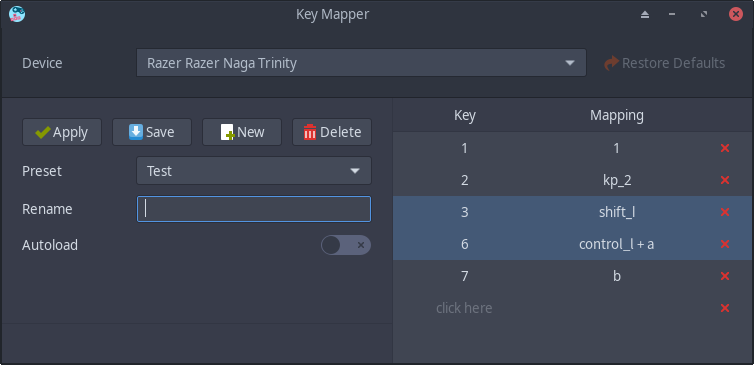
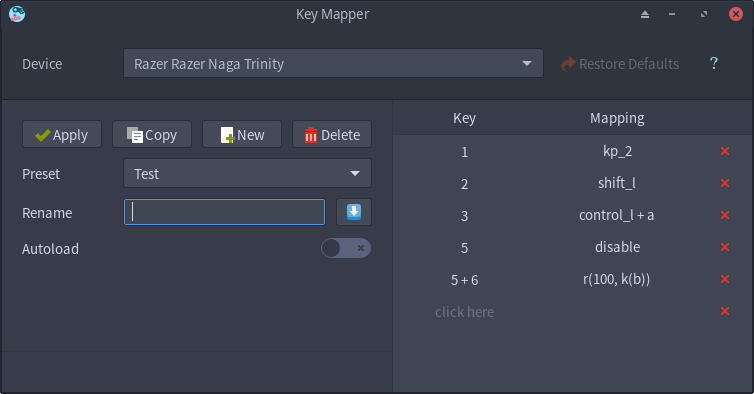
fixed mapping joysticks as buttons

diff --git a/tests/testcases/test_reader.py b/tests/testcases/test_reader.py
@@ -20,6 +20,7 @@
 
 
 import unittest
+from unittest import mock
 import time
 import multiprocessing
 
@@ -166,22 +167,22 @@ class TestReader(unittest.TestCase):
         self.assertEqual(reader.get_unreleased_keys(), None)
 
     def test_change_wheel_direction(self):
-        self.assertEqual(reader.read(), None)
-        self.create_helper()
-        self.assertEqual(reader.read(), None)
         # not just wheel, anything that suddenly reports a different value.
         # as long as type and code are equal its the same key, so there is no
         # way both directions can be held down.
+        self.assertEqual(reader.read(), None)
+        self.create_helper()
+        self.assertEqual(reader.read(), None)
         reader.start_reading('device 1')
         self.assertEqual(reader.read(), None)
 
-        send_event_to_reader(new_event(1234, 2345, 1))
-        self.assertEqual(reader.read(), (1234, 2345, 1))
+        send_event_to_reader(new_event(EV_REL, REL_WHEEL, 1))
+        self.assertEqual(reader.read(), (EV_REL, REL_WHEEL, 1))
         self.assertEqual(len(reader._unreleased), 1)
         self.assertEqual(reader.read(), None)
 
-        send_event_to_reader(new_event(1234, 2345, -1))
-        self.assertEqual(reader.read(), (1234, 2345, -1))
+        send_event_to_reader(new_event(EV_REL, REL_WHEEL, -1))
+        self.assertEqual(reader.read(), (EV_REL, REL_WHEEL, -1))
         # notice that this is no combination of two sides, the previous
         # entry in unreleased has to get overwritten. So there is still only
         # one element in it.
@@ -240,13 +241,14 @@ class TestReader(unittest.TestCase):
     def test_reading_3(self):
         self.create_helper()
         # a combination of events via Socket with reads inbetween
-        reader.start_reading('device 1')
+        reader.start_reading('gamepad')
 
         send_event_to_reader(new_event(EV_KEY, CODE_1, 1, 1001))
         self.assertEqual(reader.read(), (
             (EV_KEY, CODE_1, 1)
         ))
 
+        custom_mapping.set('gamepad.joystick.left_purpose', BUTTONS)
         send_event_to_reader(new_event(EV_ABS, ABS_Y, 1, 1002))
         self.assertEqual(reader.read(), (
             (EV_KEY, CODE_1, 1),
@@ -308,7 +310,7 @@ class TestReader(unittest.TestCase):
         self.assertEqual(len(reader._unreleased), 0)
 
     def test_combine_triggers(self):
-        reader.start_reading('foo')
+        reader.start_reading('device 1')
 
         i = 0
 

diff --git a/keymapper/gui/helper.py b/keymapper/gui/helper.py
@@ -38,8 +38,7 @@ from evdev.ecodes import EV_KEY
 
 from keymapper.ipc.pipe import Pipe
 from keymapper.logger import logger
-from keymapper.state import custom_mapping
-from keymapper.getdevices import get_devices, is_gamepad
+from keymapper.getdevices import get_devices
 from keymapper import utils
 
 
@@ -110,7 +109,6 @@ class RootHelper:
         device_name = self.device_name
 
         rlist = {}
-        gamepad = {}
 
         if device_name is None:
             logger.error('device_name is None')
@@ -135,7 +133,6 @@ class RootHelper:
 
         for device in virtual_devices:
             rlist[device.fd] = device
-            gamepad[device.fd] = is_gamepad(device)
 
         logger.debug(
             'Starting reading keycodes from "%s"',
@@ -162,21 +159,18 @@ class RootHelper:
 
                 try:
                     event = device.read_one()
-                    self._send_event(event, device, gamepad[device.fd])
+                    self._send_event(event, device)
                 except OSError:
                     logger.debug('Device "%s" disappeared', device.path)
                     return
 
-    def _send_event(self, event, device, gamepad):
+    def _send_event(self, event, device):
         """Write the event into the pipe to the main process.
 
         Parameters
         ----------
         event : evdev.InputEvent
         device : evdev.InputDevice
-        gamepad : bool
-            If true, ABS_X and ABS_Y might be mapped to buttons as well
-            depending on the purpose configuration
         """
         # value: 1 for down, 0 for up, 2 for hold.
         if event.type == EV_KEY and event.value == 2:
@@ -192,9 +186,6 @@ class RootHelper:
             # disable mapping the left mouse button because it would break
             # the mouse. Also it is emitted right when focusing the row
             # which breaks the current workflow.
-            return
-
-        if not utils.should_map_as_btn(event, custom_mapping, gamepad):
             return
 
         max_abs = utils.get_max_abs(device)

diff --git a/keymapper/gui/reader.py b/keymapper/gui/reader.py
@@ -33,6 +33,9 @@ from keymapper.key import Key
 from keymapper.getdevices import set_devices
 from keymapper.ipc.pipe import Pipe
 from keymapper.gui.helper import TERMINATE
+from keymapper import utils
+from keymapper.state import custom_mapping
+from keymapper.getdevices import get_devices
 
 
 DEBOUNCE_TICKS = 3
@@ -130,6 +133,10 @@ class Reader:
             message = self._results.recv()
             event = self._get_event(message)
             if event is None:
+                continue
+
+            gamepad = get_devices()[self.device_name]['gamepad']
+            if not utils.should_map_as_btn(event, custom_mapping, gamepad):
                 continue
 
             event_tuple = (event.type, event.code, event.value)
